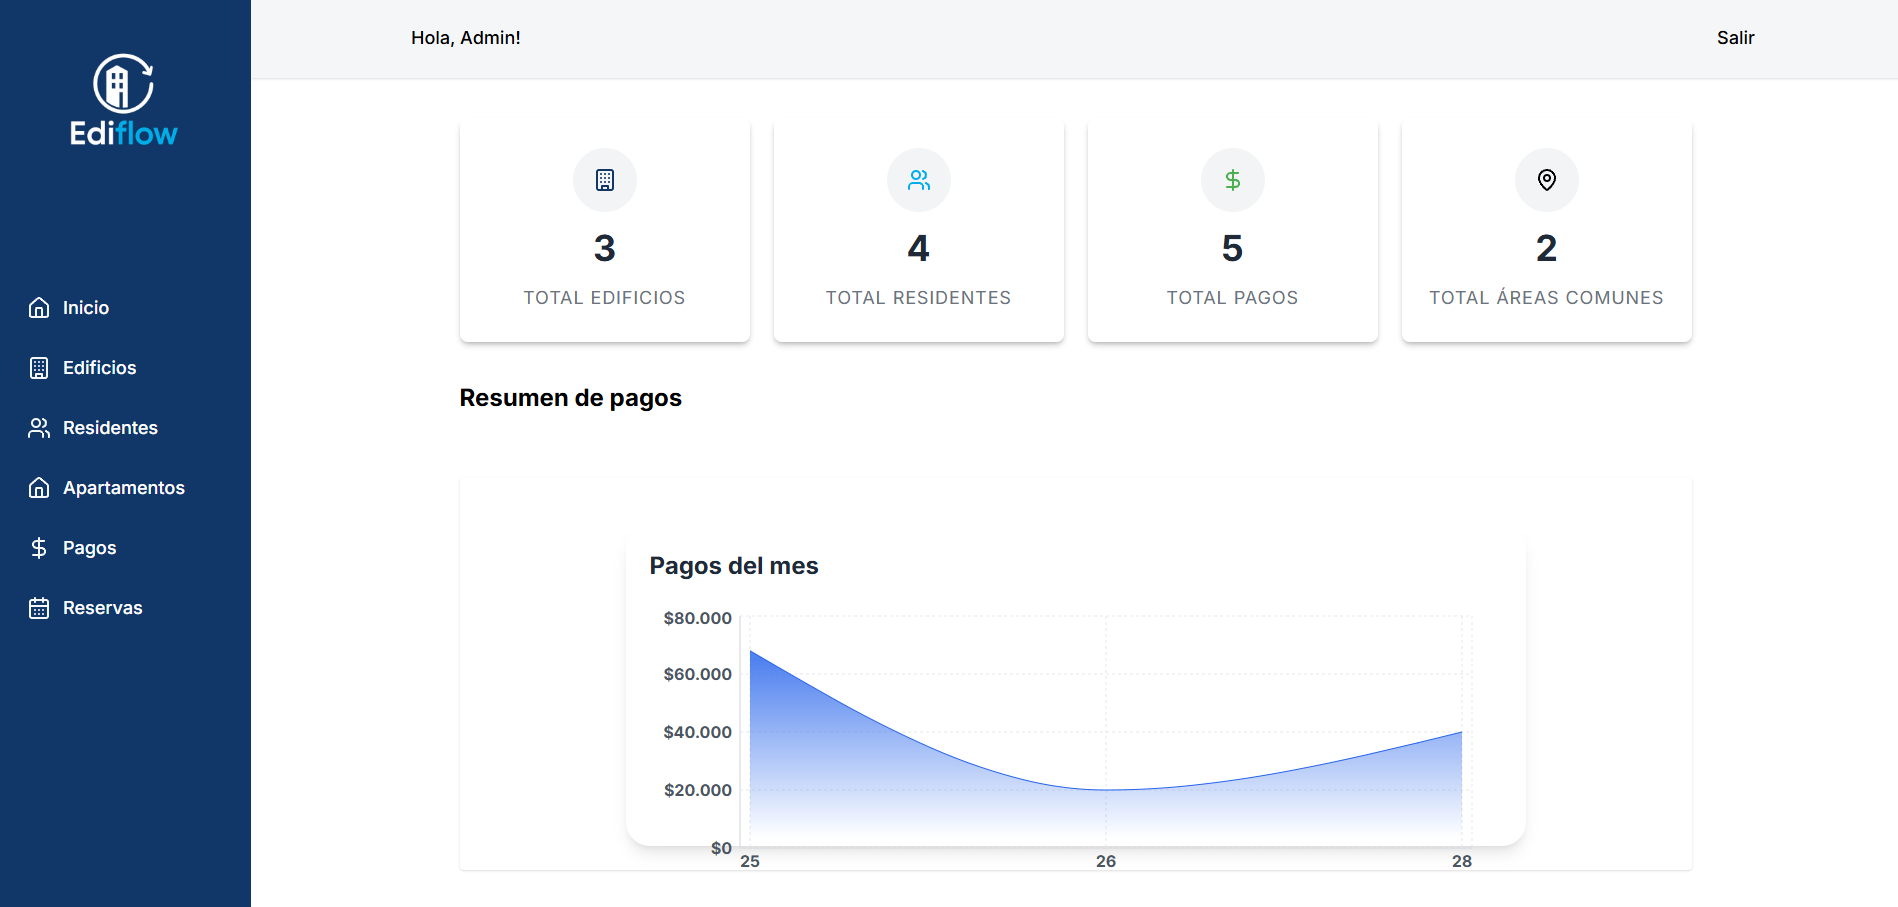
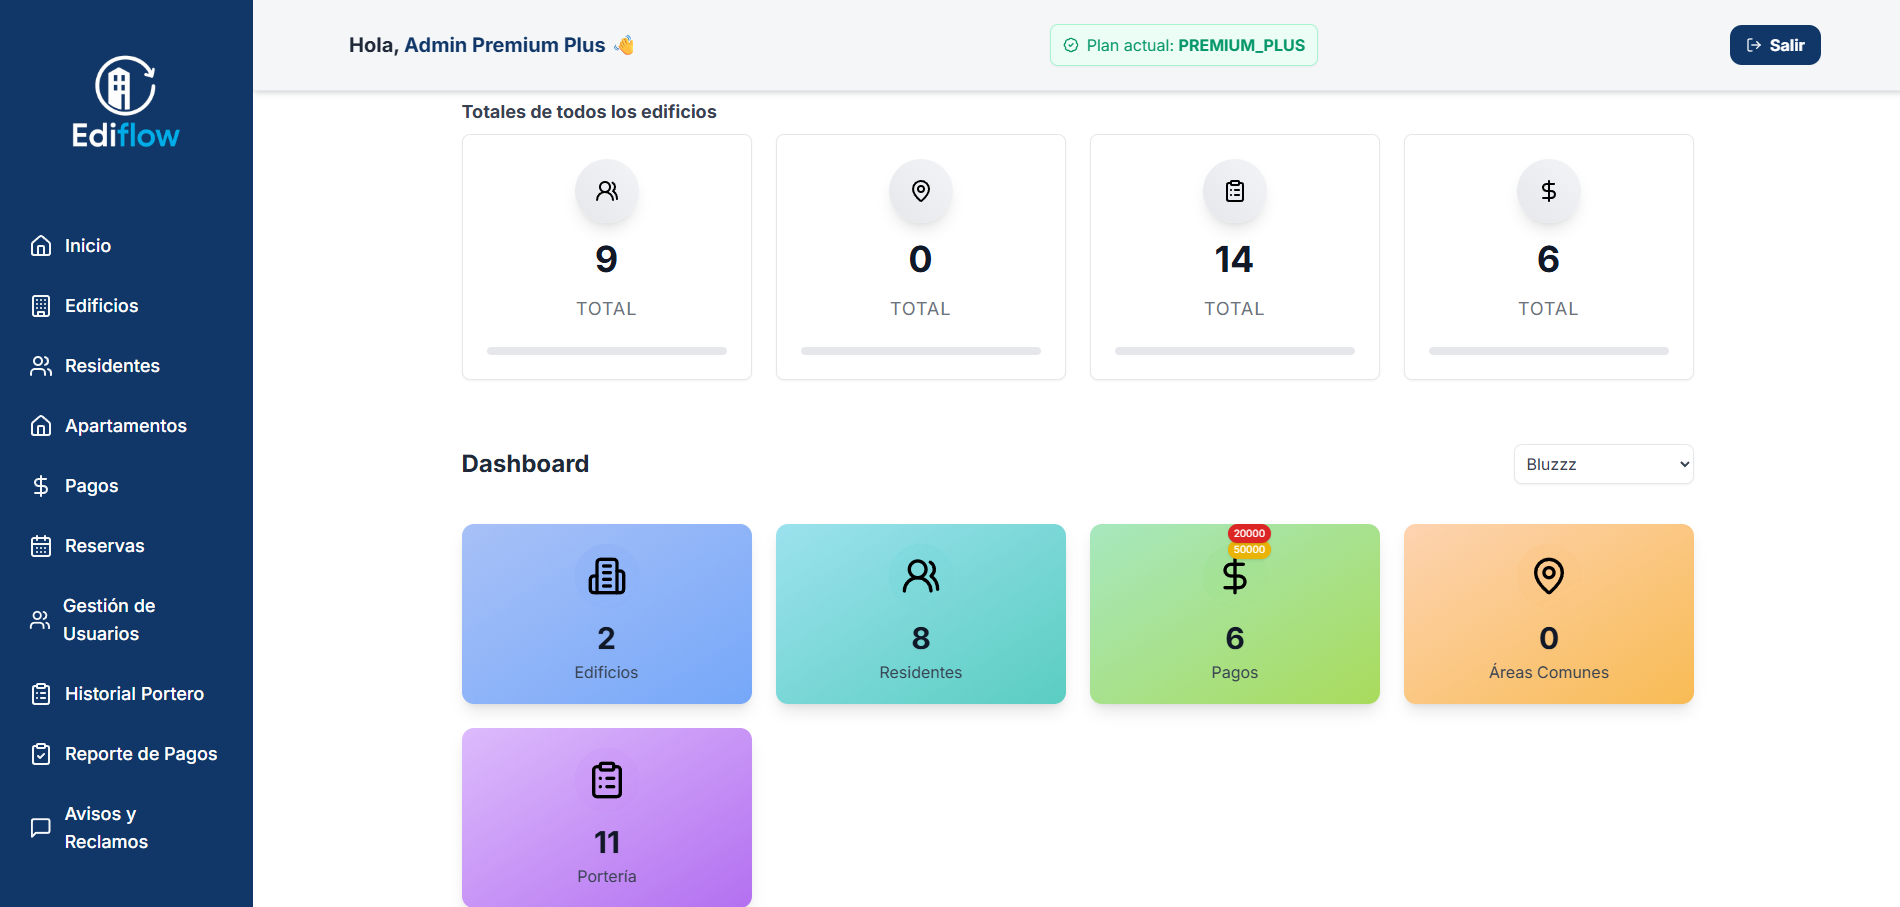
Agrreglando seccion screen

diff --git a/frontend/ediflow-frontend/src/components/landing/ScreenshotsSection.jsx b/frontend/ediflow-frontend/src/components/landing/ScreenshotsSection.jsx
@@ -8,31 +8,38 @@ import { Navigation, Pagination, Autoplay } from "swiper/modules";
 import { useNavigate } from "react-router-dom";
 
 import DashboardAdmin from '../../assets/images/paneladmin.png';
-import ListaResidentes from '../../assets/images/gestionapartamentos.png';
 import GestionPagos from '../../assets/images/pagosgestion.png';
 import ReservasResidente from '../../assets/images/reservasresidente.png';
 import DashboardResidente from '../../assets/images/panelresidente.png';
+import PaymentsChartImg from '../../assets/images/graficosadmin.png';
+import PorterPanel from '../../assets/images/panelportero.png';
+import AvisosReclamos from '../../assets/images/avisosyreclamos.png';
 
 const screenshots = [
   {
     src: DashboardAdmin,
     alt: "Dashboard principal del administrador de Ediflow",
-    caption: "Gestioná todos tus edificios y residentes desde un solo panel intuitivo.",
+    caption: "Tu panel central para controlar edificios, residentes, pagos, áreas comunes y portería de manera intuitiva.",
   },
   {
-    src: ListaResidentes,
-    alt: "Gestión de apartamentos con los residentes",
-    caption: "Organizá departamentos y residentes sin complicaciones.",
+    src: PaymentsChartImg,
+    alt: "Gráfico de pagos",
+    caption: "Visualizá pagos pagados, pendientes y vencidos de manera clara y rápida.",
   },
   {
-    src: GestionPagos,
-    alt: "Pantalla de gestión de pagos",
-    caption: "Mantené al día los pagos y controlá los estados de cada unidad fácilmente.",
+    src: AvisosReclamos,
+    alt: "Gestión de avisos y reclamos",
+    caption: "Recibí y gestioná avisos y reclamos de los residentes rápidamente.",
+  },
+  {
+    src: PorterPanel,
+    alt: "Panel de portería",
+    caption: "Registrá paquetes y visitas de manera sencilla.",
   },
   {
     src: DashboardResidente,
     alt: "Panel de usuario residente",
-    caption: "Permití a tus residentes ver pagos y reservas desde su propio panel.",
+    caption: "Permití a tus residentes ver pagos, paquetes, visitas, avisos y reservas desde su propio panel.",
   },
   {
     src: ReservasResidente,
@@ -54,20 +61,24 @@ const ScreenshotsSection = ({ id }) => {
         <Swiper
           modules={[Navigation, Pagination, Autoplay]}
           navigation
-          pagination={{ clickable: true }}
+          pagination={{ clickable: true, bulletActiveClass: 'bg-white' }}
           autoplay={{ delay: 6000, disableOnInteraction: false }}
           spaceBetween={30}
-          slidesPerView={1}
-          className="max-w-4xl mx-auto rounded-2xl shadow-xl shadow-black/40"
+          slidesPerView={1} // Solo un slide visible
+          className="max-w-4xl mx-auto rounded-2xl shadow-xl shadow-black/30"
         >
           {screenshots.map(({ src, alt, caption }, idx) => (
-            <SwiperSlide key={idx} className="transition-transform duration-300 hover:scale-[1.02]">
-              <img
-                src={src}
-                alt={alt}
-                className="w-full rounded-2xl object-contain shadow-md ring-1 ring-white/10"
-              />
-              <p className="mt-6 text-edigray text-base italic">{caption}</p>
+            <SwiperSlide key={idx} className="transition-transform duration-500 hover:scale-105 cursor-pointer">
+              <div className="relative">
+                <img
+                  src={src}
+                  alt={alt}
+                  className="w-full rounded-2xl object-contain shadow-md ring-1 ring-white/10"
+                />
+                <div className="absolute bottom-0 left-0 right-0 bg-black/40 p-4 rounded-b-2xl">
+                  <p className="text-white text-base italic">{caption}</p>
+                </div>
+              </div>
             </SwiperSlide>
           ))}
         </Swiper>
@@ -75,7 +86,7 @@ const ScreenshotsSection = ({ id }) => {
         {/* CTA debajo del carrusel */}
         <div className="mt-14">
           <button
-            className="bg-white text-ediblue font-semibold py-4 px-10 rounded-xl hover:bg-edigray transition-all duration-300 shadow-md"
+            className="bg-white text-ediblue font-semibold py-4 px-10 rounded-xl hover:bg-edigray transition-all duration-300 shadow-md hover:shadow-lg hover:-translate-y-1"
             onClick={() => navigate('/auth/register-admin')}
           >
             Empezar prueba gratis

diff --git a/frontend/ediflow-frontend/src/components/Dashboard/StatCard.jsx b/frontend/ediflow-frontend/src/components/Dashboard/StatCard.jsx
@@ -6,23 +6,33 @@ const StatCard = ({ icon, number, type, color = 'text-ediblue' }) => {
       role="region"
       aria-label={`Estadística de ${type}`}
       tabIndex={0}
-      className="bg-white rounded-lg border border-gray-200 shadow-sm hover:shadow-md 
-                 transition-shadow duration-300 outline-none focus:outline focus:outline-ediblue
+      className="bg-white rounded-lg border border-gray-200 shadow-sm hover:shadow-lg hover:scale-105
+                 transform transition-all duration-300 outline-none focus:outline focus:outline-ediblue
                  p-6 min-h-[14rem] w-full flex flex-col items-center justify-center gap-4"
     >
       <div
-        className={`text-5xl ${color} w-16 h-16 flex items-center justify-center rounded-full bg-gray-100`}
+        className={`text-5xl ${color} w-16 h-16 flex items-center justify-center rounded-full bg-gradient-to-tr from-gray-200 to-gray-100 shadow-lg`}
       >
         {icon}
       </div>
-      <h2 className="text-4xl font-extrabold text-gray-800">
+
+      <h2 className="text-4xl font-extrabold text-gray-900 animate-fadeIn">
         {displayNumber}
       </h2>
+
       <h3 className="text-lg text-gray-500 uppercase tracking-wider text-center">
         Total {type}
       </h3>
+
+      <div className="w-full bg-gray-200 rounded-full h-2 mt-2">
+        <div
+          className={`h-2 rounded-full ${color}`}
+          style={{ width: `${Math.min(displayNumber / 100, 100)}%` }}
+        ></div>
+      </div>
     </div>
   );
 };
+
 
 export default StatCard;
